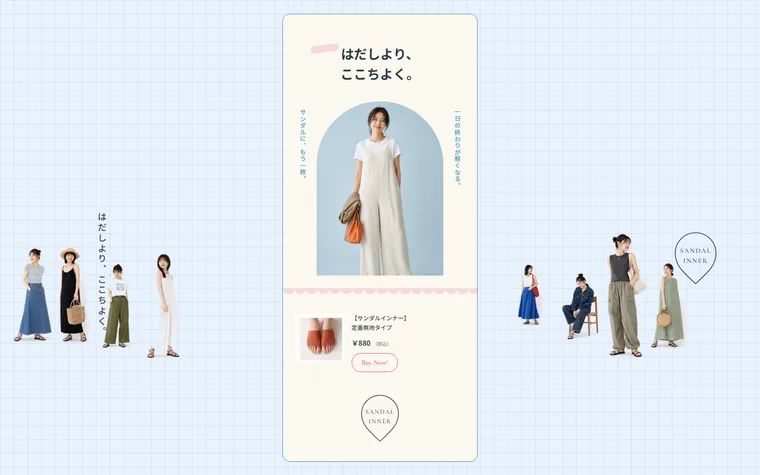
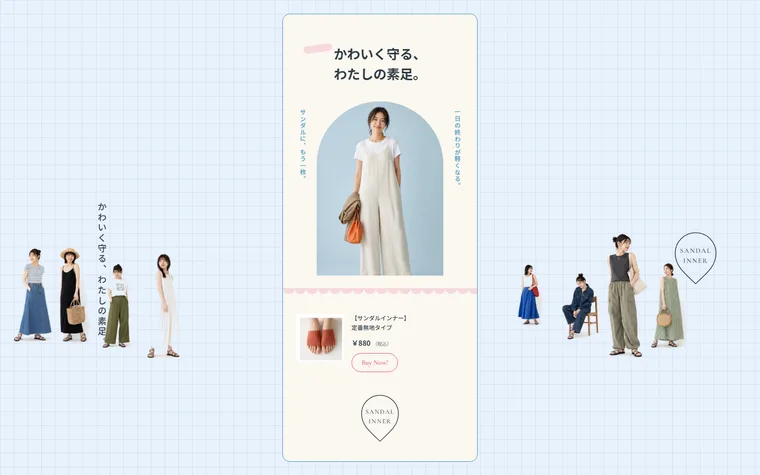
TOPのキャッチコピーを参照元の言い回しに合わせる
4サイト（アオト塗料・杣戸の外あそび・あしたの靴下・ひととき雑貨店）の
ヒーローのキャッチコピーを、参照元の言い回しに揃えた。
実在の固有名詞だけは架空のものに置き換えている（五木→杣戸、アジア→島）。

- 最滴塗料メーカー / 杣戸の自然でディープに遊ぶ！
- かわいく守る、わたしの素足。 / 島の空気を、わが家にそっとひとさじ。

SVG・Figmaのヒーローフレーム・サムネイル・録画も作り直した。
各READMEに採用経緯と商標確認の注意を追記し、照合コマンドから
キャッチコピーの語を外して整合を取った。

Claude-Session: https://claude.ai/code/session_01MHtPmVS1QZnHXQ6XQnV8AE

Changed region(s): [[0.3934, 0.0884, 0.5447, 0.1768], [0.1211, 0.4126, 0.1513, 0.56], [0.1211, 0.5895, 0.1513, 0.7074]]

diff --git a/sites/hitotoki/index.html b/sites/hitotoki/index.html
@@ -4,7 +4,7 @@
 <meta charset="UTF-8">
 <meta name="viewport" content="width=device-width, initial-scale=1">
 <title>暮らしをめぐる 島の市｜ひととき雑貨店</title>
-<meta name="description" content="遠くの島の手ざわりを、家にひとつだけ。手編みのかごバッグ、刺し子のポーチ、藍のストール。ひととき雑貨店の季節特集「島の市」。">
+<meta name="description" content="島の空気を、わが家にそっとひとさじ。手編みのかごバッグ、刺し子のポーチ、藍のストール。ひととき雑貨店の季節特集「島の市」。">
 <link rel="preconnect" href="https://fonts.googleapis.com">
 <link rel="preconnect" href="https://fonts.gstatic.com" crossorigin>
 <link href="https://fonts.googleapis.com/css2?family=Noto+Sans+JP:wght@400;500;700;800&family=Bodoni+Moda:wght@500;700&display=swap" rel="stylesheet">
@@ -54,8 +54,8 @@
     <p class="hero__lim pop"><i>数量</i><i>限定</i></p>
     <h1 class="hero__en pop">ISLAND<br>MARKET</h1>
   </div>
-  <p class="hero__lead fade">遠くの島の手ざわりを、<br>家にひとつだけ。<br>そろいすぎていない、<br>そのくらいがちょうどいい。</p>
-  <p class="hero__lead2 fade">いつもの部屋を、旅の続きに。</p>
+  <p class="hero__lead fade">島の空気を、<br>わが家にそっとひとさじ。<br>整いすぎていない、<br>そのくらいがちょうどいい。</p>
+  <p class="hero__lead2 fade">いつもの場所を、旅先に。</p>
 </section>
 
 <!-- ============ 02 商品① ============ -->

diff --git a/sites/ashita-socks/index.html b/sites/ashita-socks/index.html
@@ -22,7 +22,7 @@
 <!-- カラムの外に反復する装飾（SPでは消す） -->
 <div class="deco" aria-hidden="true">
   <div class="deco__band">
-    <p class="deco__v">はだしより、ここちよく。</p>
+    <p class="deco__v">かわいく守る、わたしの素足。</p>
     <span class="deco__badge"><svg><use href="#badge"/></svg><i>SANDAL<br>INNER</i></span>
     <img class="deco__p deco__p--l1" src="assets/img/p0.webp" alt="" width="220" height="420">
     <img class="deco__p deco__p--l2" src="assets/img/p1.webp" alt="" width="220" height="420">
@@ -40,7 +40,7 @@
 
   <!-- ============ 01 ヒーロー ============ -->
   <section class="pane pane--cream hero" id="top">
-    <h1 class="hero__h fade"><span class="mk">はだしより、</span><br>ここちよく。</h1>
+    <h1 class="hero__h fade"><span class="mk">かわいく守る、</span><br>わたしの素足。</h1>
     <div class="hero__fig fade">
       <p class="v v--l">サンダルに、もう一枚。</p>
       <figure class="arch"><img src="assets/img/model.webp" alt="サンダルインナーを合わせたコーディネート" width="560" height="840"></figure>

diff --git a/sites/somado/index.html b/sites/somado/index.html
@@ -69,7 +69,7 @@
 <!-- ============ 02 イントロ ============ -->
 <section class="intro">
   <div class="pane pane--grn">
-    <h2 class="intro__h reveal"><span>杣戸の自然で</span><em>とことん遊ぶ！</em></h2>
+    <h2 class="intro__h reveal"><span>杣戸の自然で</span><em>ディープに遊ぶ！</em></h2>
     <figure class="intro__map reveal"><img src="assets/img/map.webp" alt="杣戸川ぞいのフィールドを描いた鳥瞰イラストマップ" width="900" height="900"></figure>
     <span class="cloud cloud--1" aria-hidden="true"></span>
     <span class="cloud cloud--2" aria-hidden="true"></span>

diff --git a/sites/aoto/index.html b/sites/aoto/index.html
@@ -47,7 +47,7 @@
     <span class="crop" aria-hidden="true"></span>
     <img class="ob ob--c float" src="assets/img/b0.webp" alt="虹色の塗膜のイメージ" width="760" height="760">
   </div>
-  <p class="hero__v rise">塗る仕事を軽くする</p>
+  <p class="hero__v rise">最滴塗料メーカー</p>
   <img class="ob ob--r float" src="assets/img/b1.webp" alt="" width="760" height="760">
 </section>
 
